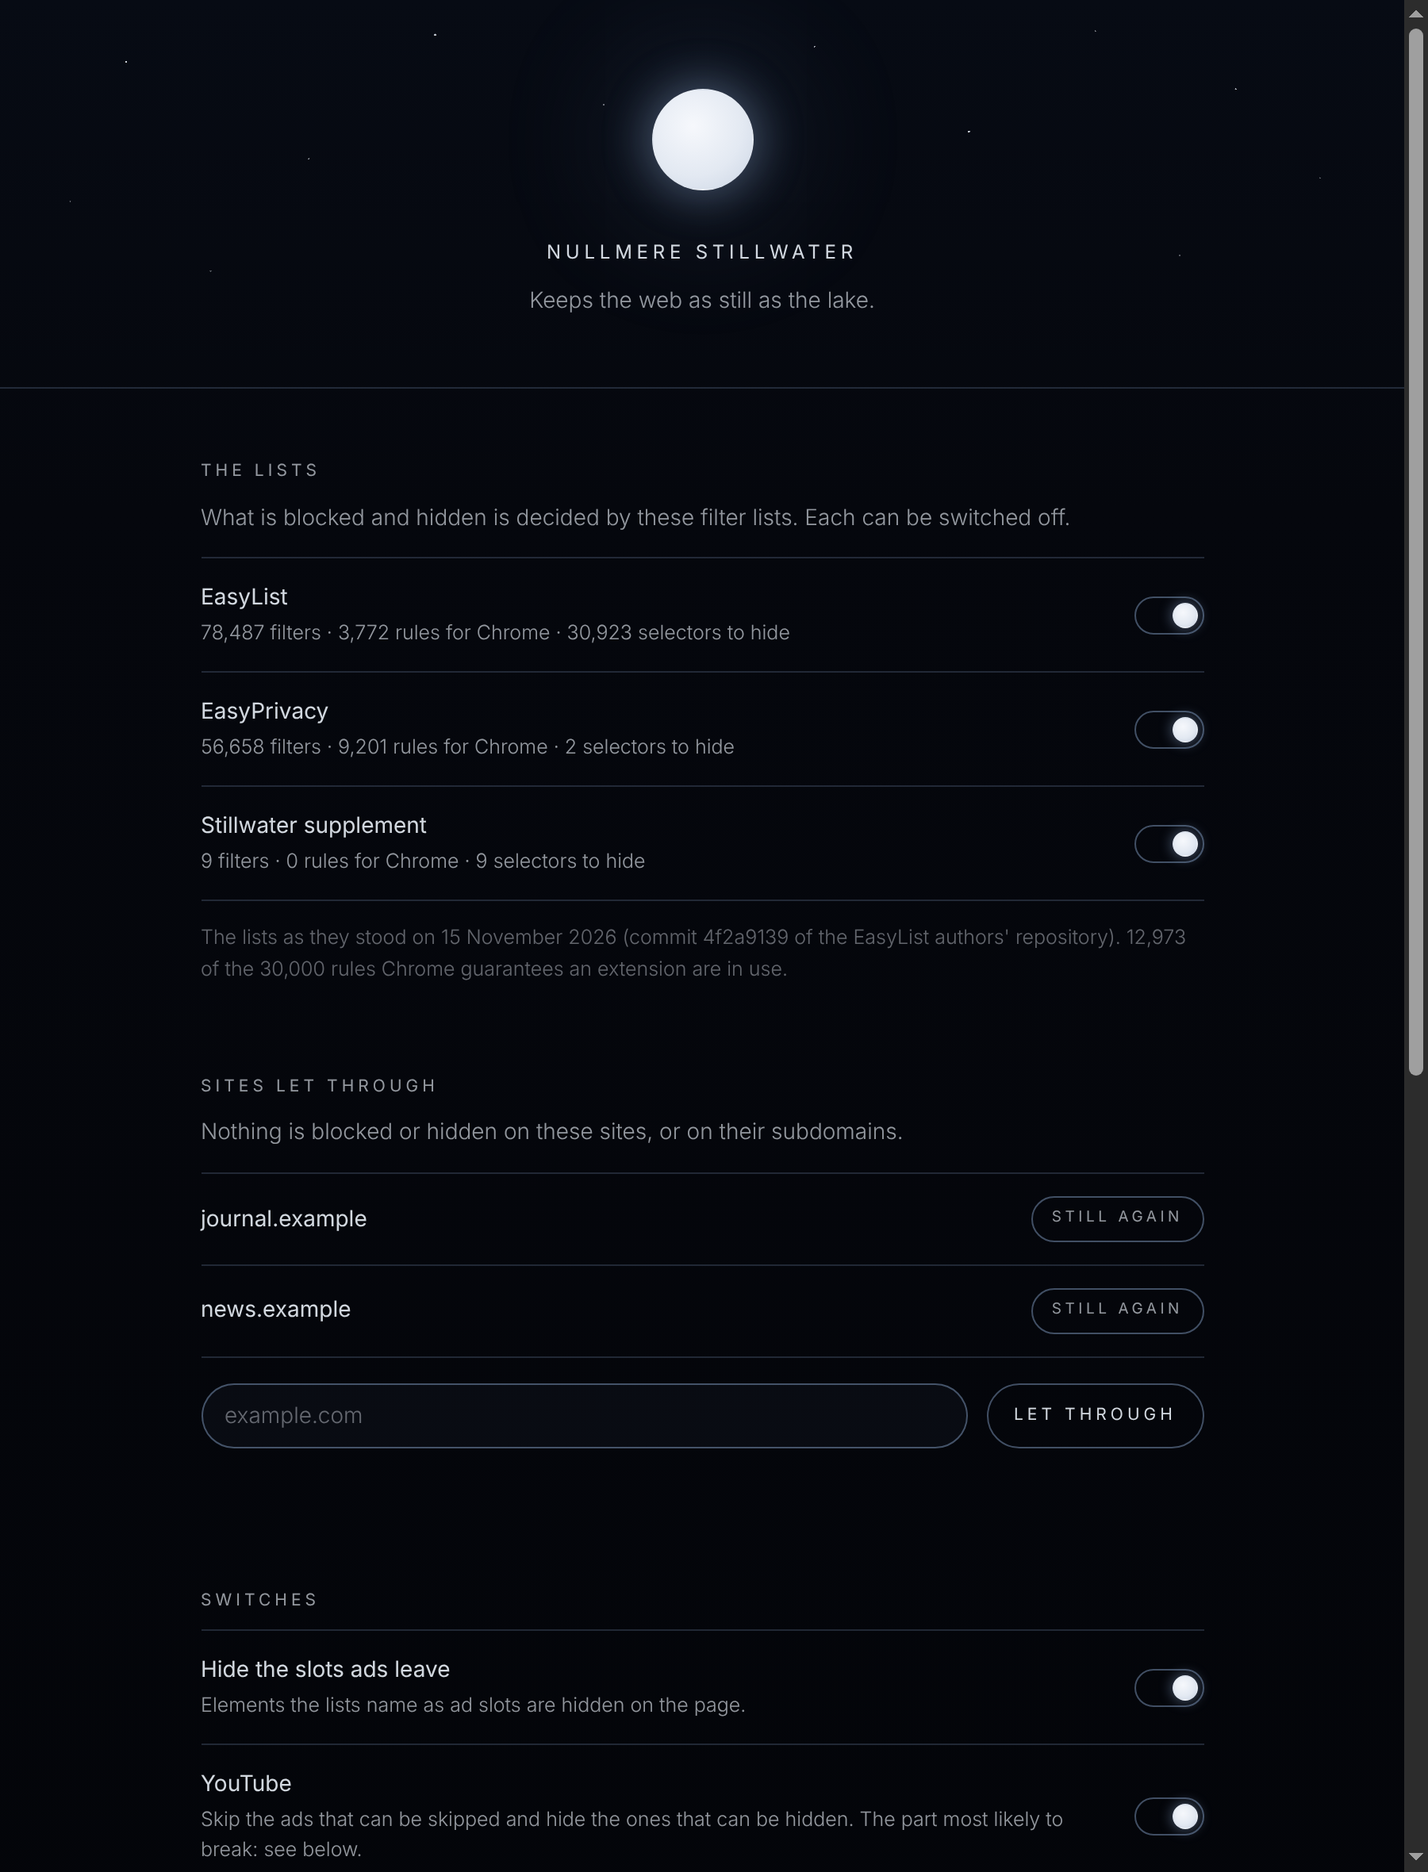
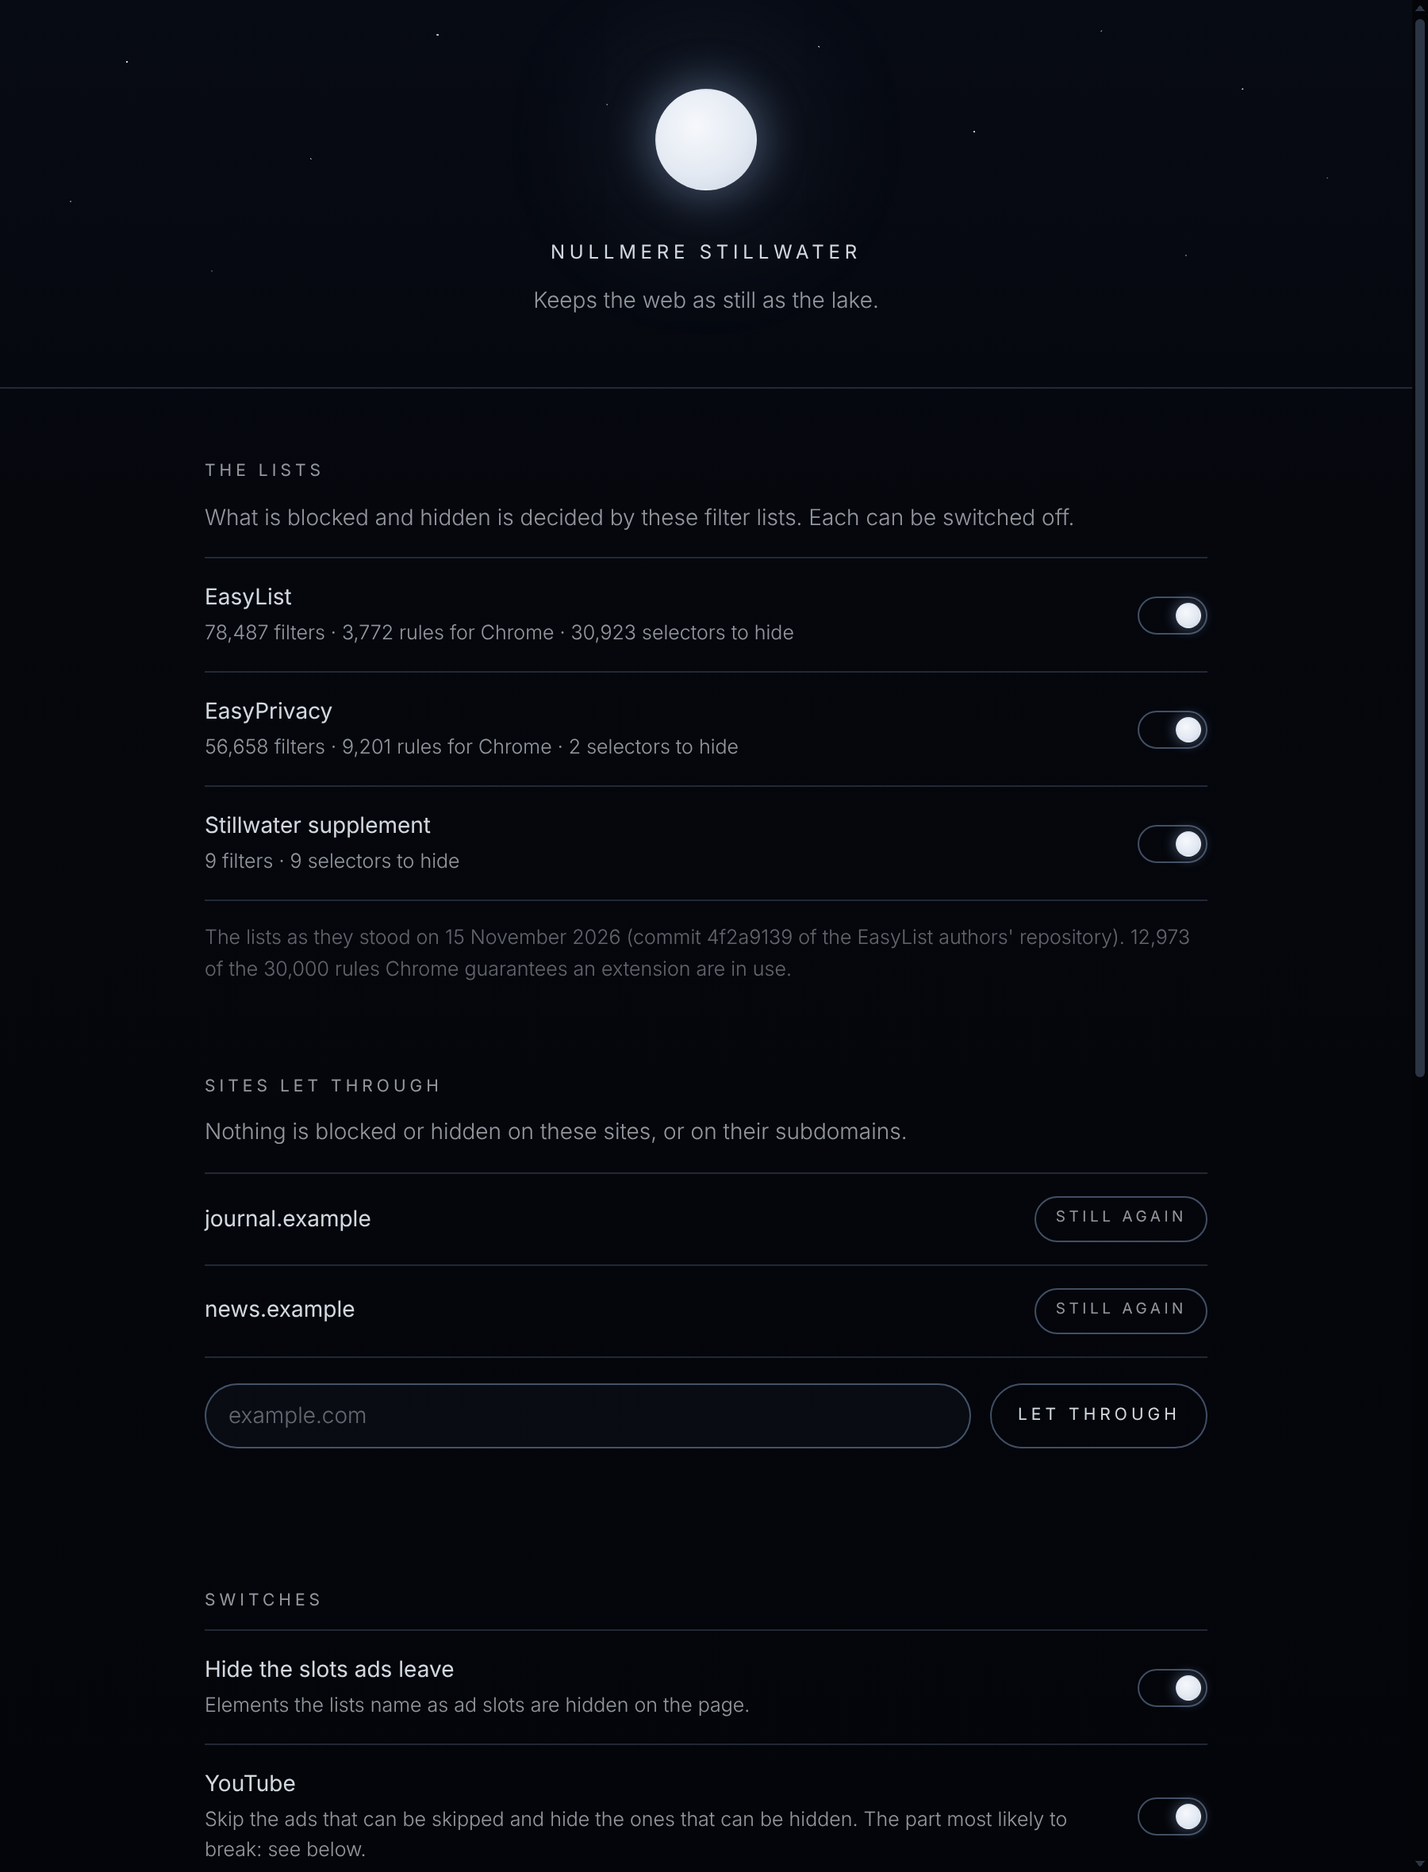
Ad blocker: what was chosen outlasts a restart, an update, and being switched off
Two faults, found by starting the browser a second time in a test:

- A list switched off came back on when the extension was updated or
  reloaded. Chrome keeps the enabled rulesets only until the next update
  and then goes back to the manifest's. The lists switched off are now
  kept with the other settings, and the worker holds Chrome to them.
- Switched off and on again in chrome://extensions, the badge lost its
  colours and the tabs their icons: Chrome forgets them and tells the
  worker of neither an install nor a browser start. The worker now puts
  the settings into effect once whenever Chrome starts the extension
  anew, which it knows by storage.session being empty, and answers no
  message before that is done.

Three browser tests (test/e2e/restart.test.js): the browser closed and
started again on the same profile; the extension switched off and on;
and the worker stopped as Chrome stops an idle one, then woken by a page.
The options picture is retaken from the page as it now reads.

Tests: 64 unit and 47 browser tests pass here.

Claude-Session: https://claude.ai/code/session_01QPd9Y6FaTARPjD47R345tW

diff --git a/extensions/chrome-adblocker/test/e2e/restart.test.js b/extensions/chrome-adblocker/test/e2e/restart.test.js
@@ -1,0 +1,154 @@
+// What the user chose has to outlast the worker, the browser and the
+// extension being switched off: Chrome stops the worker when it is idle,
+// forgets the badge's colours whenever it starts the extension anew, and
+// tells the worker of only some of those starts.
+
+import assert from 'node:assert/strict';
+import { mkdtempSync, readFileSync, rmSync } from 'node:fs';
+import { tmpdir } from 'node:os';
+import { join } from 'node:path';
+import { after, before, test } from 'node:test';
+import { complaints, launch, open, root, startServer, until } from './harness.js';
+
+const AD = 'adnxs.com';
+const BADGE = { shown: [22, 35, 58, 255], unseen: [0, 0, 0, 0] };
+
+let server;
+let profile;
+
+before(async () => {
+  server = await startServer();
+  profile = mkdtempSync(join(tmpdir(), 'stillwater-kept-'));
+  for (const site of ['shop.test', 'other.test']) {
+    server.page(site, '/', `<!doctype html><title>${site}</title><body><script src="${server.url(AD, '/tag.js')}"></script></body>`);
+  }
+});
+
+after(async () => {
+  await server?.close();
+  rmSync(profile, { recursive: true, force: true });
+});
+
+/** How many of a site's ad requests Chromium kept from it. */
+async function keptFrom(browser, site) {
+  const { page, blocked } = await open(browser.context, server.url(site));
+  const count = blocked().length;
+  await page.close();
+  return count;
+}
+
+/** What Chrome holds for the extension, asked of whichever worker is running now. */
+async function held(worker) {
+  return worker.evaluate(async () => ({
+    background: await chrome.action.getBadgeBackgroundColor({}),
+    dynamic: (await chrome.declarativeNetRequest.getDynamicRules()).map((rule) => rule.id).sort(),
+    lists: (await chrome.declarativeNetRequest.getEnabledRulesets()).sort(),
+    scripts: (await chrome.scripting.getRegisteredContentScripts()).map((script) => script.id),
+    settings: (await chrome.storage.local.get('settings')).settings,
+  }));
+}
+
+test('closed and started again, the browser has the sites let through, the switches and the lists as they were left', async () => {
+  let browser = await launch(undefined, { profile });
+  try {
+    await browser.ask({ type: 'site:set', site: 'shop.test', allowed: true });
+    await browser.ask({ type: 'settings:set', patch: { badge: false, youtube: false } });
+    await browser.ask({ type: 'ruleset:set', id: 'easyprivacy', enabled: false });
+    assert.equal(await keptFrom(browser, 'shop.test'), 0);
+    assert.equal(await keptFrom(browser, 'other.test'), 1);
+  } finally {
+    await browser.close();
+  }
+
+  browser = await launch(undefined, { profile });
+  try {
+    // The worker answers nothing until the start's own work is done, so
+    // what it says first is already what was left.
+    const { settings, enabled } = await browser.ask({ type: 'overview' });
+    assert.deepEqual(settings.allowlist, ['shop.test']);
+    assert.equal(settings.badge, false);
+    assert.equal(settings.youtube, false);
+    assert.deepEqual(settings.listsOff, ['easyprivacy']);
+    assert.deepEqual([...enabled].sort(), ['easylist', 'stillwater'], 'the list switched off is off when the options page first asks');
+    const now = await held(browser.worker);
+    assert.deepEqual(now.background, BADGE.unseen, 'the badge is unseen again, as it was left');
+    assert.deepEqual(now.dynamic, [1, 3], 'the two rules that let a site through');
+    assert.deepEqual(now.lists, ['easylist', 'stillwater'], 'the list switched off is still off');
+    assert.deepEqual(now.scripts, [], 'the YouTube script is not registered while its switch is off');
+    assert.equal(await keptFrom(browser, 'shop.test'), 0, 'the site let through still is');
+    assert.equal(await keptFrom(browser, 'other.test'), 1, 'and another site is still filtered');
+
+    const found = await complaints(browser);
+    if (found) assert.deepEqual([found.warnings, found.manifest, found.errors], [[], [], []]);
+  } finally {
+    await browser.close();
+  }
+});
+
+test('switched off and on again in chrome://extensions, the extension is as it was', async (t) => {
+  const browser = await launch();
+  try {
+    await browser.ask({ type: 'site:set', site: 'shop.test', allowed: true });
+    assert.deepEqual((await held(browser.worker)).background, BADGE.shown);
+
+    const cards = await browser.context.newPage();
+    await cards.goto('chrome://extensions/');
+    if (!(await cards.evaluate(() => typeof chrome.management?.setEnabled === 'function'))) {
+      t.skip('this Chromium does not let its extensions page switch an extension off');
+      return;
+    }
+    const setEnabled = (enabled) => cards.evaluate(([id, on]) => new Promise((done) => chrome.management.setEnabled(id, on, done)), [browser.id, enabled]);
+    await setEnabled(false);
+    assert.equal(await keptFrom(browser, 'other.test'), 0, 'off, nothing is blocked');
+    const started = browser.context.waitForEvent('serviceworker');
+    await setEnabled(true);
+    const worker = await started;
+
+    // Chrome told the worker of nothing (no install, no browser start):
+    // it has to see for itself that it was started anew.
+    const now = await until(async () => {
+      const state = await held(worker).catch(() => null);
+      return state && state.background.join() === BADGE.shown.join() ? state : null;
+    }, 'the badge to have its colours again');
+    assert.deepEqual(now.dynamic, [1, 3]);
+    assert.deepEqual(now.scripts, ['youtube-main']);
+    assert.equal(await keptFrom(browser, 'shop.test'), 0, 'the site let through still is');
+    assert.equal(await keptFrom(browser, 'other.test'), 1, 'and another site is filtered again');
+    await cards.close();
+  } finally {
+    await browser.close();
+  }
+});
+
+test('a worker Chrome has stopped comes back knowing what to hide and what was chosen', async () => {
+  const browser = await launch();
+  try {
+    // A class EasyList hides wherever it is found, taken from the build.
+    const { generic } = JSON.parse(readFileSync(join(root, 'build', 'cosmetic', 'easylist.json'), 'utf8'));
+    const selector = generic.simple.find((item) => /^\.[a-z][\w-]*$/.test(item));
+    assert.ok(selector, 'the built list has a plain class to hide');
+    server.page('slots.test', '/', `<!doctype html><body><div id="slot" class="${selector.slice(1)}">an ad</div><p>words</p></body>`);
+    await browser.ask({ type: 'site:set', site: 'shop.test', allowed: true });
+
+    // Stop the worker as Chrome does when it has been idle.
+    const desk = await browser.context.newPage();
+    await desk.goto(browser.extensionUrl('options/options.html'));
+    const protocol = await browser.context.newCDPSession(desk);
+    const statuses = [];
+    protocol.on('ServiceWorker.workerVersionUpdated', (event) => statuses.push(...event.versions.map((version) => version.runningStatus)));
+    await protocol.send('ServiceWorker.enable');
+    await until(() => statuses.includes('running'), 'the worker to be seen running');
+    await protocol.send('ServiceWorker.stopAllWorkers');
+    await until(() => statuses.at(-1) === 'stopped', 'the worker to stop');
+    await desk.close();
+
+    // The next page's content script wakes it; nothing it needs was in its memory.
+    const { page } = await open(browser.context, server.url('slots.test'));
+    await until(() => page.evaluate(() => getComputedStyle(document.getElementById('slot')).display === 'none'), 'the slot to be hidden by a worker started afresh');
+    await page.close();
+    assert.equal(await keptFrom(browser, 'shop.test'), 0);
+    assert.equal(await keptFrom(browser, 'other.test'), 1);
+  } finally {
+    await browser.close();
+  }
+});

diff --git a/extensions/chrome-adblocker/src/background/service-worker.js b/extensions/chrome-adblocker/src/background/service-worker.js
@@ -14,12 +14,36 @@ const ICONS = {
   off: { 16: '/icons/off-16.png', 32: '/icons/off-32.png', 48: '/icons/off-48.png' },
 };
 
+/** What the enabled lists hide, once it has been read; null whenever the enabled lists change. */
+let index = null;
+
 // ---------------------------------------------------------------------------
 // The user's choices, put into effect.
 
-/** Makes Chrome's dynamic rules and the badge follow the settings. */
+/** The ids of the filter lists the extension is built with. */
+function listIds() {
+  return chrome.runtime.getManifest().declarative_net_request.rule_resources.map((resource) => resource.id);
+}
+
+/**
+ * Has Chrome enable the lists the user left on and no others. Chrome
+ * keeps the enabled set itself, but only until the extension is next
+ * updated, when every list in the manifest comes back on.
+ */
+async function applyLists(settings) {
+  const off = new Set(settings.listsOff);
+  const enabled = new Set(await dnr.getEnabledRulesets());
+  const enableRulesetIds = listIds().filter((id) => !off.has(id) && !enabled.has(id));
+  const disableRulesetIds = listIds().filter((id) => off.has(id) && enabled.has(id));
+  if (!enableRulesetIds.length && !disableRulesetIds.length) return;
+  await dnr.updateEnabledRulesets({ enableRulesetIds, disableRulesetIds });
+  index = null;
+}
+
+/** Makes Chrome's rules, lists and the badge follow the settings. */
 async function apply(settings) {
   await dnr.updateDynamicRules({ removeRuleIds: Object.values(RULE), addRules: userRules(settings) });
+  await applyLists(settings);
   // Chrome counts what it blocked on each tab's page and writes it on the
   // icon. With the badge off the count is still kept (the popup reads it)
   // and only drawn in next to no colour: Chrome refuses a text colour of
@@ -91,16 +115,33 @@ async function paintAll(settings) {
   await Promise.all(tabs.map((tab) => paint(tab.id, tab.url, settings)));
 }
 
-chrome.runtime.onInstalled.addListener(async () => {
-  const settings = await readSettings();
-  await apply(settings);
-  await paintAll(settings);
-});
+let woken = null;
 
-chrome.runtime.onStartup.addListener(async () => {
-  const settings = await readSettings();
-  await apply(settings);
-});
+/**
+ * Puts the settings into effect once each time Chrome starts the extension
+ * anew: installed, updated, the browser started, or switched off and on
+ * again. Chrome forgets the badge's colours and the tabs' icons at every
+ * one of those and tells the worker of only some of them. It empties
+ * storage.session at all of them, so a mark kept there says whether this
+ * has been done since.
+ */
+function wake() {
+  woken ??= inTurn(async () => {
+    const { awake } = await chrome.storage.session.get('awake');
+    if (awake) return;
+    const settings = await readSettings();
+    await apply(settings);
+    await paintAll(settings);
+    await chrome.storage.session.set({ awake: true });
+  }).catch(() => {
+    woken = null;
+  });
+  return woken;
+}
+
+chrome.runtime.onInstalled.addListener(wake);
+chrome.runtime.onStartup.addListener(wake);
+wake();
 
 chrome.tabs.onUpdated.addListener(async (tabId, change, tab) => {
   // A tab's own icon is forgotten when it navigates.
@@ -109,8 +150,6 @@ chrome.tabs.onUpdated.addListener(async (tabId, change, tab) => {
 
 // ---------------------------------------------------------------------------
 // Cosmetic filtering: which elements a page hides.
-
-let index = null;
 
 /** The cosmetic data of the lists now enabled, read once for as long as the worker lives. */
 function cosmeticIndex() {
@@ -260,27 +299,21 @@ const fromExtension = {
     return { settings };
   },
 
-  /** Turns a filter list on or off. Chrome remembers which are on. */
+  /** Turns a filter list on or off. */
   async 'ruleset:set'({ id, enabled }) {
-    const known = chrome.runtime.getManifest().declarative_net_request.rule_resources.map((resource) => resource.id);
-    if (!known.includes(id)) return { error: 'There is no such list.' };
+    if (!listIds().includes(id)) return { error: 'There is no such list.' };
     return inTurn(async () => {
-      await dnr.updateEnabledRulesets(enabled ? { enableRulesetIds: [id] } : { disableRulesetIds: [id] });
-      index = null;
+      const kept = await readSettings();
+      kept.listsOff = listIds().filter((list) => (list === id ? !enabled : kept.listsOff.includes(list)));
+      await save(kept);
       return overview();
     });
   },
 
   /** Back to how Stillwater was installed. */
   async reset() {
-    const known = chrome.runtime.getManifest().declarative_net_request.rule_resources;
     return inTurn(async () => {
-      await dnr.updateEnabledRulesets({
-        enableRulesetIds: known.filter((resource) => resource.enabled).map((resource) => resource.id),
-        disableRulesetIds: known.filter((resource) => !resource.enabled).map((resource) => resource.id),
-      });
-      index = null;
-      await save({ ...DEFAULTS, allowlist: [] });
+      await save({ ...DEFAULTS, allowlist: [], listsOff: [] });
       return overview();
     });
   },
@@ -291,6 +324,10 @@ chrome.runtime.onMessage.addListener((message, sender, respond) => {
   const own = typeof sender.url === 'string' && sender.url.startsWith(chrome.runtime.getURL(''));
   const handler = (own ? fromExtension[message?.type] : undefined) ?? fromPage[message?.type];
   if (!handler) return false;
-  handler(message, sender).then(respond, (error) => respond({ error: String(error?.message ?? error) }));
+  // Not before the settings are in effect: a page asking in the first
+  // moment after a start would be told of lists Chrome had just put back.
+  wake()
+    .then(() => handler(message, sender))
+    .then(respond, (error) => respond({ error: String(error?.message ?? error) }));
   return true;
 });

diff --git a/extensions/chrome-adblocker/test/e2e/harness.js b/extensions/chrome-adblocker/test/e2e/harness.js
@@ -119,8 +119,10 @@ export async function startServer({ secure = false } = {}) {
  * the extension's service worker, `ask` sends it a message as one of the
  * extension's own pages would.
  */
-export async function launch(directory = join(root, 'build'), { insecure = false, scale = undefined } = {}) {
-  const profile = mkdtempSync(join(tmpdir(), 'stillwater-'));
+export async function launch(directory = join(root, 'build'), { insecure = false, scale = undefined, profile: kept = undefined } = {}) {
+  // A profile handed in is the caller's to keep and to remove: a browser
+  // started twice on it is the same browser, restarted.
+  const profile = kept ?? mkdtempSync(join(tmpdir(), 'stillwater-'));
   const context = await chromium.launchPersistentContext(profile, {
     // The new headless mode is the one that loads extensions; Playwright's
     // own headless shell does not.
@@ -157,7 +159,7 @@ export async function launch(directory = join(root, 'build'), { insecure = false
     ask,
     async close() {
       await context.close();
-      rmSync(profile, { recursive: true, force: true });
+      if (!kept) rmSync(profile, { recursive: true, force: true });
     },
   };
 }

diff --git a/extensions/chrome-adblocker/src/shared/settings.js b/extensions/chrome-adblocker/src/shared/settings.js
@@ -13,6 +13,12 @@ export const DEFAULTS = Object.freeze({
   youtube: true,
   /** Show the count of what was kept from a page on the toolbar icon. */
   badge: true,
+  /**
+   * Filter lists switched off, by ruleset id. Chrome remembers which
+   * rulesets are enabled only until the extension is next updated, and
+   * then goes back to the manifest's; this is what the user chose.
+   */
+  listsOff: [],
 });
 
 const KEY = 'settings';
@@ -20,7 +26,9 @@ const KEY = 'settings';
 export async function readSettings() {
   const stored = (await chrome.storage.local.get(KEY))[KEY] ?? {};
   const settings = { ...DEFAULTS, ...stored };
-  settings.allowlist = Array.isArray(settings.allowlist) ? settings.allowlist.filter((site) => typeof site === 'string') : [];
+  for (const key of ['allowlist', 'listsOff']) {
+    settings[key] = Array.isArray(settings[key]) ? settings[key].filter((item) => typeof item === 'string') : [];
+  }
   return settings;
 }
 

diff --git a/extensions/chrome-adblocker/test/e2e/pages.test.js b/extensions/chrome-adblocker/test/e2e/pages.test.js
@@ -185,7 +185,7 @@ test('putting everything back as installed is asked twice, and does it', async (
   await page.click('#reset');
   await until(async () => (await switches(page, 'switches')).map((item) => item[1]).join() === 'true,true,true,false', 'the switches to go back');
   const state = await browser.ask({ type: 'overview' });
-  assert.deepEqual(state.settings, { allowlist: [], paused: false, cosmetic: true, youtube: true, badge: true });
+  assert.deepEqual(state.settings, { allowlist: [], paused: false, cosmetic: true, youtube: true, badge: true, listsOff: [] });
   assert.deepEqual(state.enabled.sort(), ['easylist', 'easyprivacy', 'stillwater']);
   assert.deepEqual(await browser.worker.evaluate(() => chrome.declarativeNetRequest.getDynamicRules()), []);
   await page.close();
